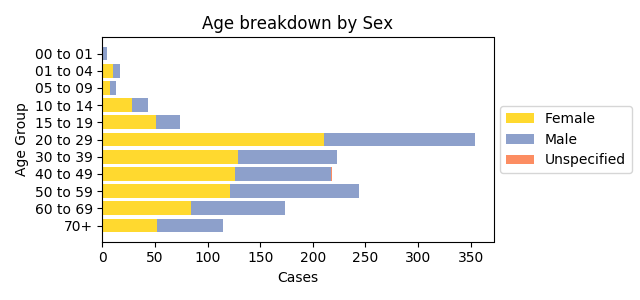
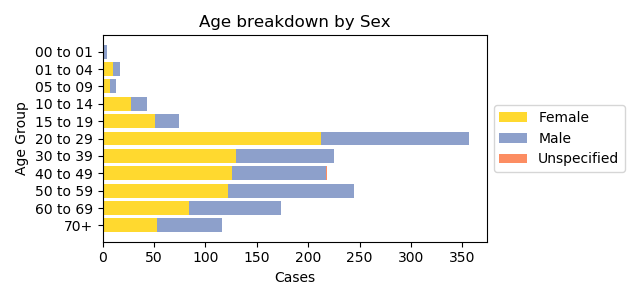
Updated data

diff --git a/NZModel/nz_data.py b/NZModel/nz_data.py
@@ -26,7 +26,7 @@ register_matplotlib_converters()
 date_column = date_column_sus = "Date of report"
 header=3
 #filename = "covidcase_list_1_apr_2020.xlsx"
-filename = "covid-cases-1may2020_0.xlsx"
+filename = "covid-cases-2may2020.xlsx"
 
 # The data keeps getting worse *sigh*
 def date_decoder(x):
